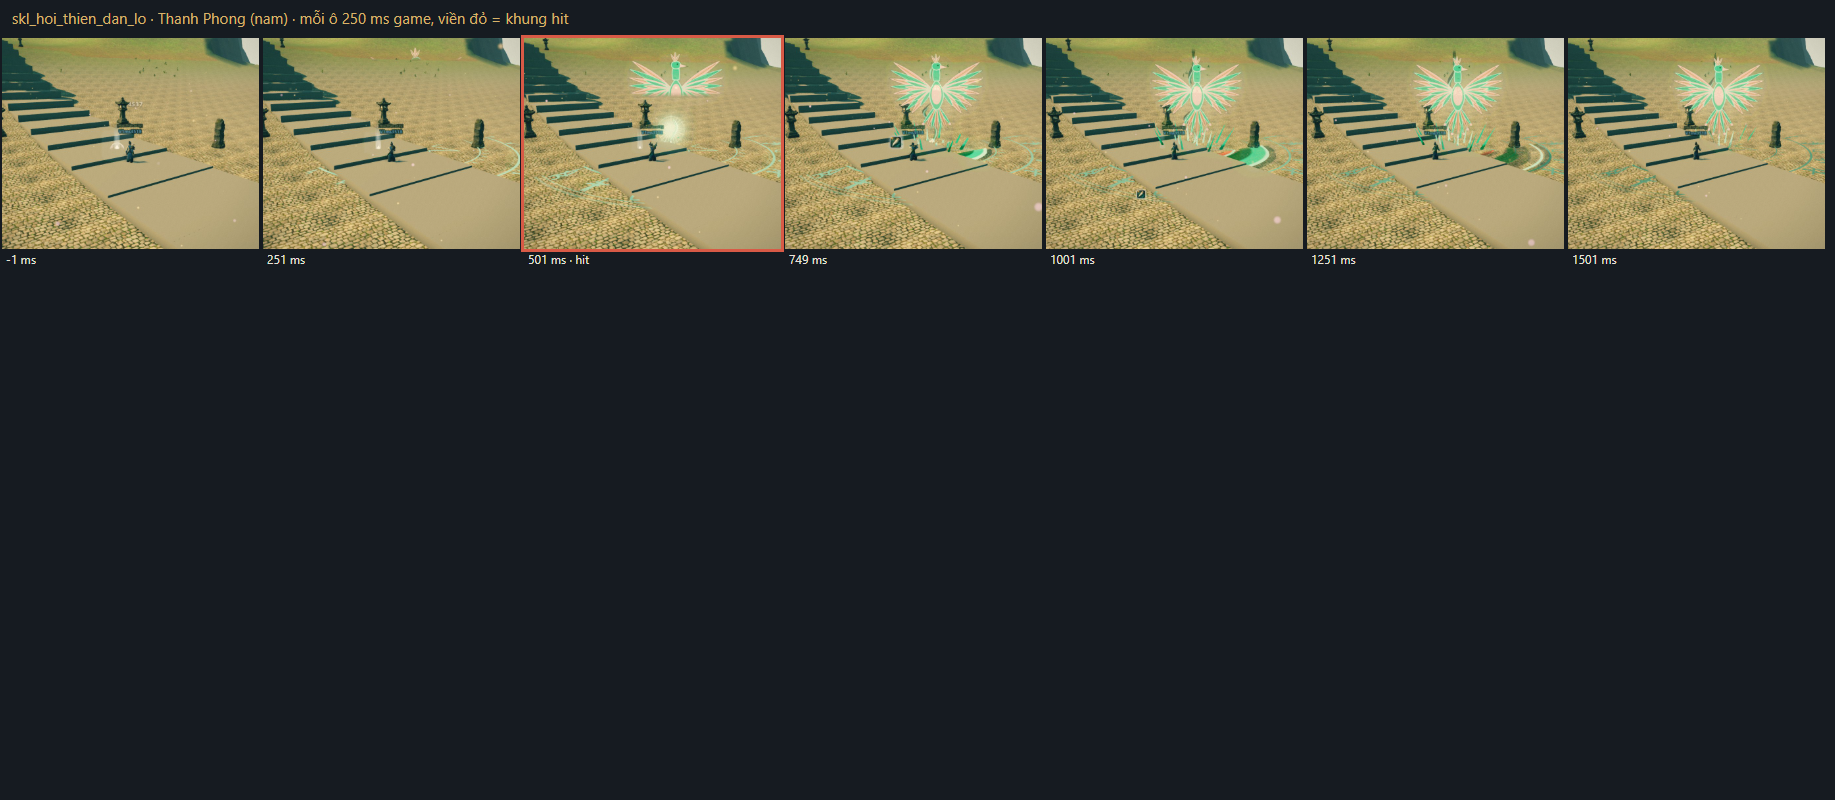
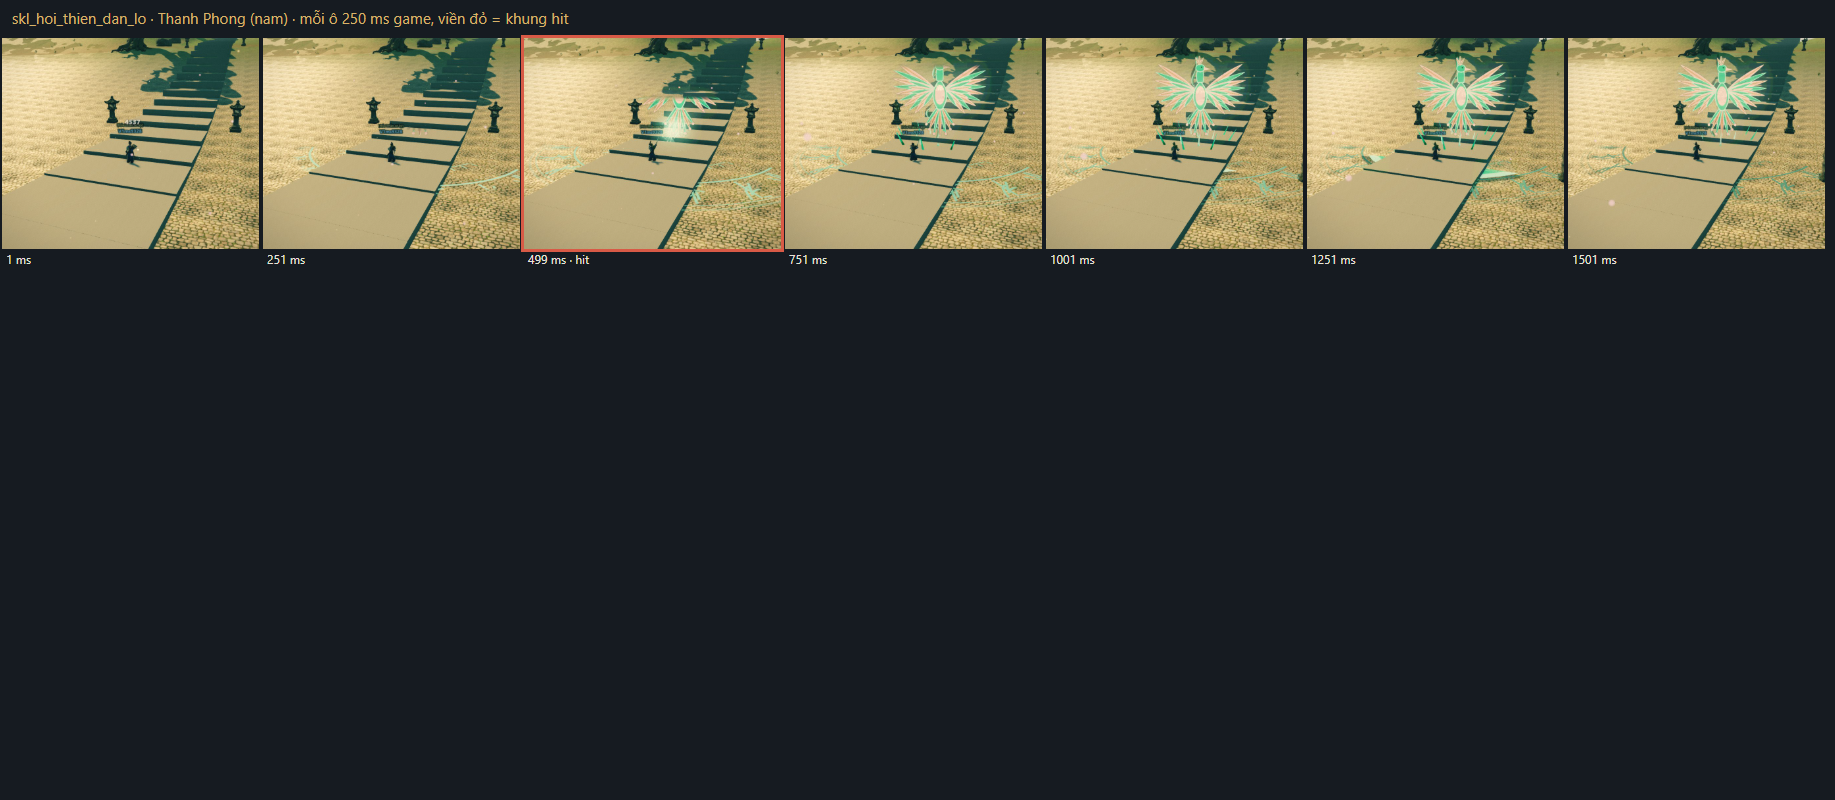
fix(vfx): thẻ pháp tướng mọc từ đáy lên (uv.y là độ cao từ đáy)

Changed region(s): [[0.0, 0.0312, 0.994, 0.3438]]

diff --git a/apps/client/src/render/vfx/stylized.ts b/apps/client/src/render/vfx/stylized.ts
@@ -351,7 +351,8 @@ export function cardNodes(U: FxUniforms): { color: N; opacity: N } {
   const base = ramp3(tier, body.mul(body).mul(0.42), body, rim, 0.3, 0.72, 0.05);
   const accCol = ramp3(tier, accent.mul(0.35), accent, mix(accent, vec3(1, 1, 1), 0.35), 0.3, 0.72, 0.05);
   const lit = mix(base, accCol, acc);
-  const fromBottom = one.sub(q.y);
+  // `uv.y` của PlaneGeometry: 0 ở đáy, 1 ở đỉnh, nên q.y chính là độ cao tính từ đáy thẻ.
+  const fromBottom = q.y;
   const reveal = one.sub(smoothstep(reveal0.sub(0.08), reveal0, fromBottom));
   const n = vnoise(q.mul(vec2(9, 12)).add(seed.mul(7)));
   const e = n.mul(0.7).add(fromBottom.mul(0.3));
